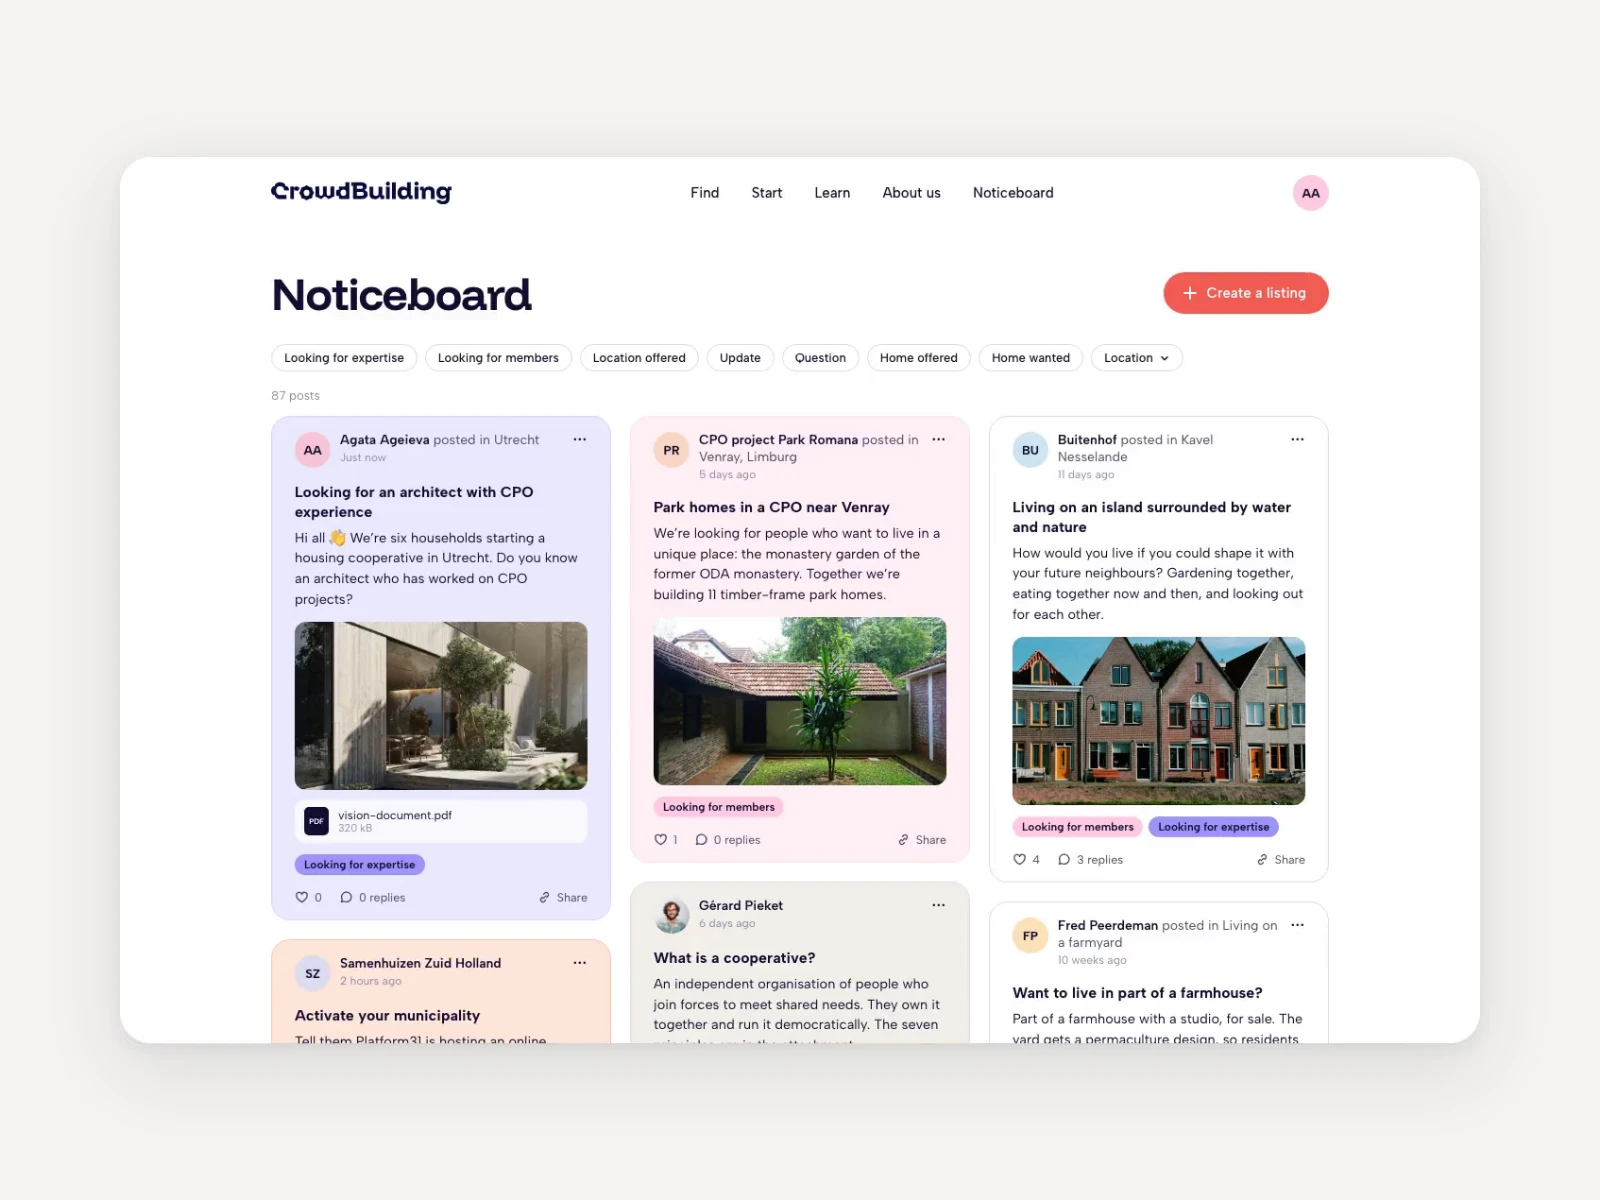
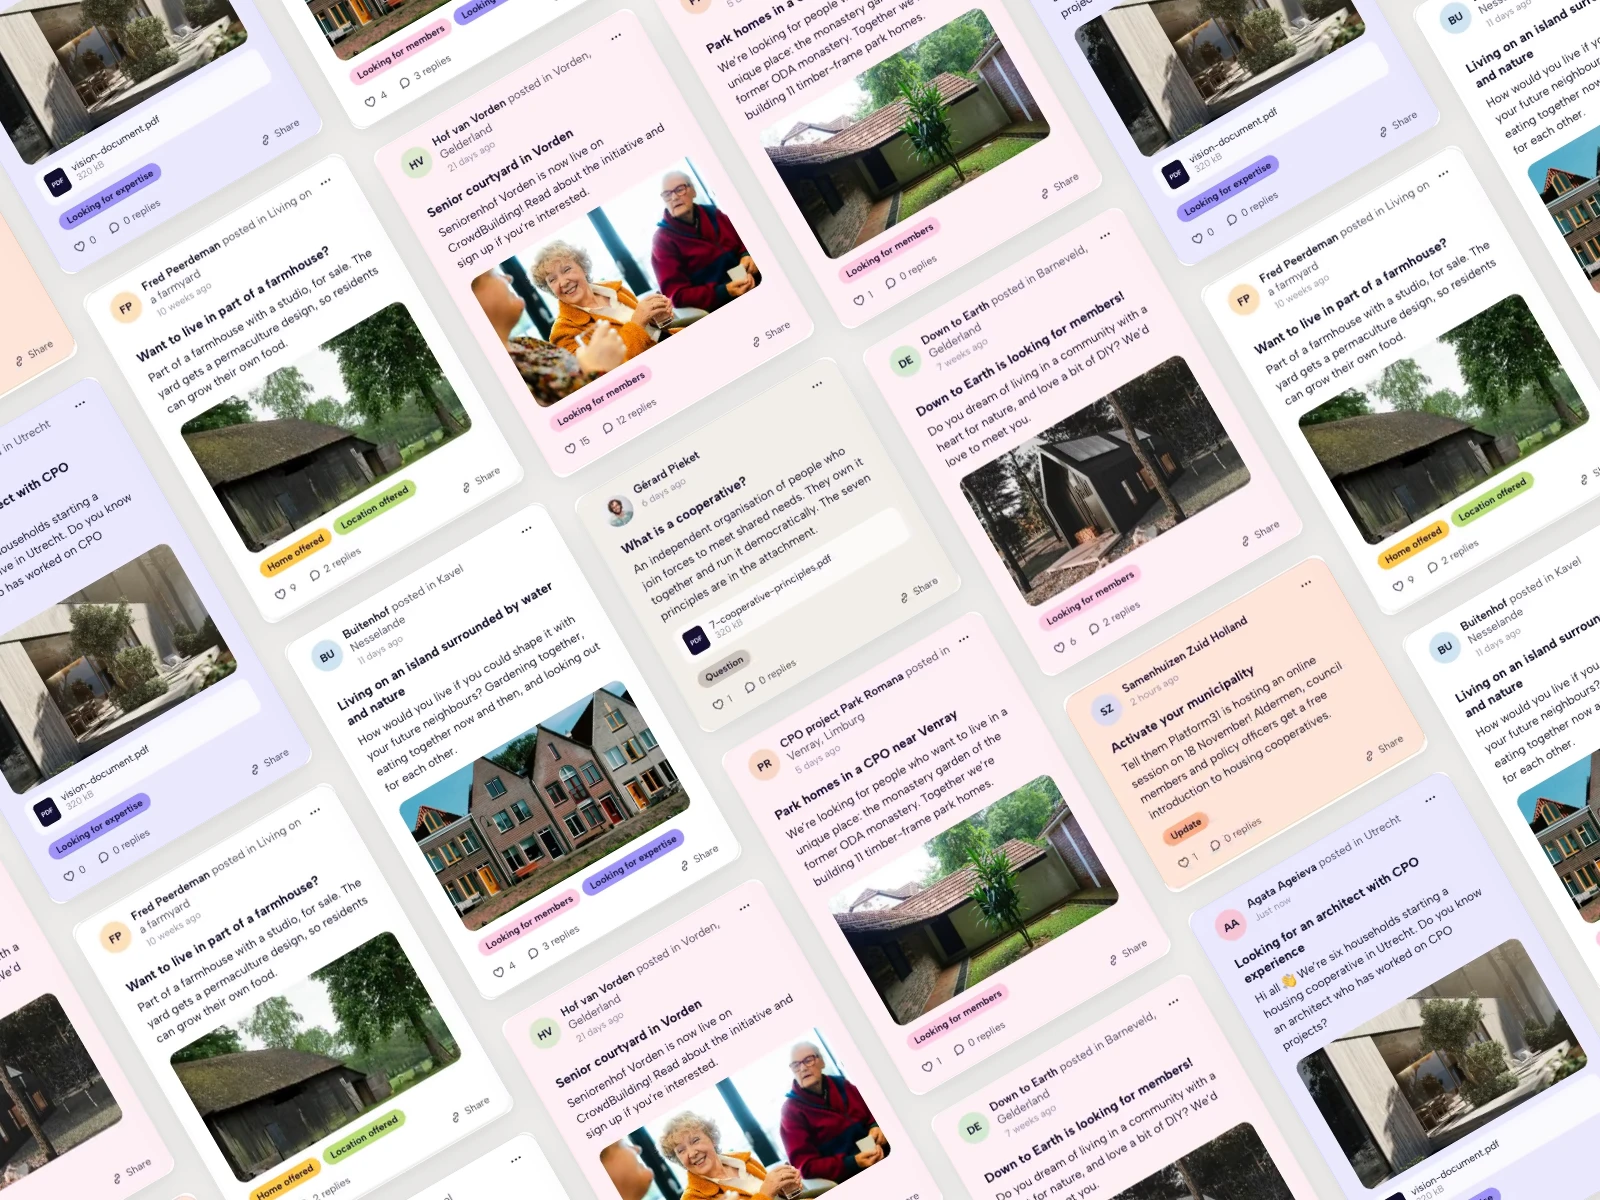
Use a tilted board of post cards as the noticeboard cover
Cards are rebuilt from the screen recording without cursors and laid
out at -30 degrees, filling the frame.

Claude-Session: https://claude.ai/code/session_01PnFuSzZFwokCBsftjY3Zgh

diff --git a/index.html b/index.html
@@ -49,7 +49,7 @@
         </li>
         <li>
           <a class="project grid row" href="work/crowdbuilding-bulletin-board.html">
-            <span class="frame"><img src="assets/img/cover-noticeboard.webp" width="1600" height="1200" decoding="async" alt="The CrowdBuilding noticeboard: filter tags above colour-coded posts from home seekers, initiatives and experts, with photos of homes."></span>
+            <span class="frame"><img src="assets/img/cover-noticeboard.webp" width="1600" height="1200" decoding="async" alt="Noticeboard post cards laid out at an angle: calls for members, questions, updates and homes on offer, each tinted by its tag."></span>
             <span class="text">
               <span class="date label">CrowdBuilding · 2026</span>
               <span class="h-md">Letting everyone raise a hand</span>
